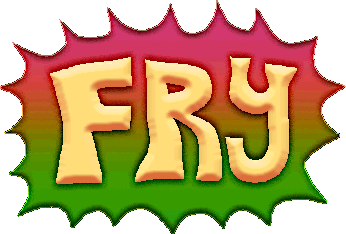
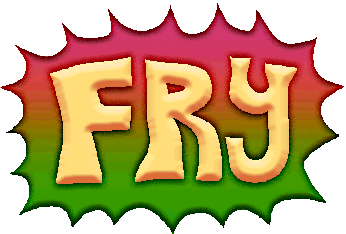
reset button

diff --git a/sketch.js b/sketch.js
@@ -7,6 +7,8 @@ let targetW = 100;
 let targetH = 100;
 // Global filterType: 0 = fryer (default), 1 = blender, 2 = coffee, 3 = candle, 4 = green blob, 5 = mechanism
 window.filterType = 0;
+// store a copy of the last-loaded original image so we can reset
+window.originalImage = null;
 
 // Replace current canvas image with a small icon corresponding to filter
 window.replaceWithIcon = function(filter) {
@@ -21,6 +23,10 @@ window.replaceWithIcon = function(filter) {
   const path = map[filter];
   if (!path) return;
 
+  // hide reset button when switching to an object/filter (only visible after loading a user image)
+  const resetBtnStart = document.getElementById('reset-image');
+  if (resetBtnStart) resetBtnStart.style.display = 'none';
+
   // hide the fry button when switching objects
   const fryBtn = document.getElementById('fry-btn');
   if (fryBtn) fryBtn.style.display = 'none';
@@ -34,6 +40,8 @@ window.replaceWithIcon = function(filter) {
   loadImage(path,
     function(loaded) {
       imgObj = loaded;
+      // when switching to an icon, keep a reference to original photo (if any)
+      // (originalImage is only set when a real photo/file is loaded via handleFile)
       // scale image so its height is 500px (width kept proportional)
       const targetHpx = 500;
       const ratio = targetHpx / loaded.height;
@@ -53,8 +61,13 @@ window.replaceWithIcon = function(filter) {
         parent.appendChild(canvasEl);
         fryerImg.style.display = 'none';
         canvasEl.style.display = 'block';
+        // ensure reset button stays hidden while showing an object icon
+        const resetBtn = document.getElementById('reset-image');
+        if (resetBtn) resetBtn.style.display = 'none';
       } else if (canvasEl) {
         canvasEl.style.display = 'block';
+        const resetBtn = document.getElementById('reset-image');
+        if (resetBtn) resetBtn.style.display = 'none';
       }
     },
     function(err){ console.error('Failed to load icon', err); }
@@ -92,9 +105,9 @@ window.applyFry = function() {
       const gr = pix[i + 1];
       const b = pix[i + 2];
       // multiply blend mode: (pixel * color) / 255
-      pix[i] = Math.round((r * 139) / 255);
-      pix[i + 1] = Math.round((gr * 90) / 255);
-      pix[i + 2] = Math.round((b * 53) / 255);
+      pix[i] = Math.round((r * 209) / 255);
+      pix[i + 1] = Math.round((gr * 152) / 255);
+      pix[i + 2] = Math.round((b * 111) / 255);
       
       // apply faint vignette (darken edges)
       const distX = Math.abs(x - w / 2) / (w / 2);
@@ -111,7 +124,78 @@ window.applyFry = function() {
     imgObj = g.get();
     const canvasEl = document.getElementById('p5canvas');
     if (canvasEl) canvasEl.style.display = 'block';
+    const resetBtn = document.getElementById('reset-image');
+    if (resetBtn) resetBtn.style.display = (window.originalImage ? 'block' : 'none');
     console.log('Applied coffee filter: brown tint + vignette');
+  } else if (window.filterType === 4) {
+    // Green blob filter: blur > brightness > contrast > posterize > green overlay
+    g.filter(BLUR, 1.5);
+    
+    // Step 1: Reduce brightness
+    g.loadPixels();
+    const pix1 = g.pixels;
+    const brightness = 1;
+    for (let i = 0; i < pix1.length; i += 4) {
+      pix1[i] = Math.round(pix1[i] * brightness);
+      pix1[i + 1] = Math.round(pix1[i + 1] * brightness);
+      pix1[i + 2] = Math.round(pix1[i + 2] * brightness);
+      // keep alpha
+    }
+    g.updatePixels();
+    
+    // Step 2: Apply contrast
+    g.loadPixels();
+    const pix2 = g.pixels;
+    const contrast = 1.5;
+    for (let i = 0; i < pix2.length; i += 4) {
+      const r = pix2[i] / 255;
+      const gr = pix2[i + 1] / 255;
+      const b = pix2[i + 2] / 255;
+      
+      const contrastR = (r - 0.5) * contrast + 0.5;
+      const contrastG = (gr - 0.5) * contrast + 0.5;
+      const contrastB = (b - 0.5) * contrast + 0.5;
+      
+      pix2[i] = Math.round(Math.max(0, Math.min(1, contrastR)) * 255);
+      pix2[i + 1] = Math.round(Math.max(0, Math.min(1, contrastG)) * 255);
+      pix2[i + 2] = Math.round(Math.max(0, Math.min(1, contrastB)) * 255);
+      // keep alpha
+    }
+    g.updatePixels();
+    
+    // Step 3: Posterize
+    const levels = Math.floor(random(6, 10));
+    g.filter(POSTERIZE, levels);
+    
+    // Step 4: Overlay pure green with soft light blend mode
+    g.loadPixels();
+    const pix = g.pixels;
+    for (let i = 0; i < pix.length; i += 4) {
+      const r = pix[i] / 255;
+      const gr = pix[i + 1] / 255;
+      const b = pix[i + 2] / 255;
+      
+      // soft light blend mode with pure green (0, 1, 0)
+      const blendR = 0;
+      const blendG = 1;
+      const blendB = 0;
+      
+      const resultR = softLight(r, blendR);
+      const resultG = softLight(gr, blendG);
+      const resultB = softLight(b, blendB);
+      
+      pix[i] = Math.round(Math.max(0, Math.min(1, resultR)) * 255);
+      pix[i + 1] = Math.round(Math.max(0, Math.min(1, resultG)) * 255);
+      pix[i + 2] = Math.round(Math.max(0, Math.min(1, resultB)) * 255);
+      // keep alpha
+    }
+    g.updatePixels();
+    imgObj = g.get();
+    const canvasEl = document.getElementById('p5canvas');
+    if (canvasEl) canvasEl.style.display = 'block';
+    const resetBtn = document.getElementById('reset-image');
+    if (resetBtn) resetBtn.style.display = (window.originalImage ? 'block' : 'none');
+    console.log('Applied green blob filter: blur > brightness > contrast > posterize=' + levels + ' > green overlay');
   } else {
     // Default fry (filterType 0): posterize + hue shift
     // posterize with random levels between 2 and 7
@@ -144,9 +228,36 @@ window.applyFry = function() {
     // ensure canvas is visible (in case it was hidden)
     const canvasEl = document.getElementById('p5canvas');
     if (canvasEl) canvasEl.style.display = 'block';
+    const resetBtn = document.getElementById('reset-image');
+    if (resetBtn) resetBtn.style.display = (window.originalImage ? 'block' : 'none');
     console.log('Applied fry: posterize=' + levels + ' hueShift=' + hueShift);
   }
 };
+
+// Reset displayed image to the last original loaded image (before any fry filters)
+window.resetToOriginal = function() {
+  if (!window.originalImage) return;
+  imgObj = window.originalImage.get();
+  // keep current scaled canvas size
+  try {
+    resizeCanvas(targetW, targetH);
+  } catch (e) {}
+  const canvasEl = document.getElementById('p5canvas');
+  if (canvasEl) canvasEl.style.display = 'block';
+  const fryerImg = document.getElementById('big-fryer');
+  if (fryerImg) fryerImg.style.display = 'none';
+  console.log('Image reset to original');
+};
+
+// Soft Light blend mode (normalized 0.0-1.0)
+// B = base color (bottom layer), A = blend color (top layer)
+function softLight(B, A) {
+  if (A <= 0.5) {
+    return (1 - 2 * A) * B * B + 2 * A * B;
+  } else {
+    return (2 * A - 1) * (Math.sqrt(B) - B) + 2 * A * B;
+  }
+}
 
 // helpers: RGB (0-255) -> HSL (h:0-360, s:0-1, l:0-1)
 function rgbToHsl(r, g, b) {
@@ -240,6 +351,8 @@ window.handleFile = function(file) {
   loadImage(url,
     function(loaded){
       imgObj = loaded;
+      // keep a pristine copy of the original loaded photo so we can reset later
+      try { window.originalImage = loaded.get(); } catch (e) { window.originalImage = null; }
       // scale image so its height is 500px (width kept proportional)
       const targetHpx = 500;
       const ratio = targetHpx / loaded.height;
@@ -260,8 +373,12 @@ window.handleFile = function(file) {
         parent.appendChild(canvasEl); // place canvas where fryer image was
         fryerImg.style.display = 'none';
         canvasEl.style.display = 'block';
+        const resetBtn = document.getElementById('reset-image');
+        if (resetBtn) resetBtn.style.display = (window.originalImage ? 'block' : 'none');
       } else if (canvasEl) {
         canvasEl.style.display = 'block';
+        const resetBtn = document.getElementById('reset-image');
+        if (resetBtn) resetBtn.style.display = (window.originalImage ? 'block' : 'none');
       }
 
       URL.revokeObjectURL(url);

diff --git a/style.css b/style.css
@@ -130,6 +130,33 @@ img[alt="Big Fryer"] {
   padding: 0;
 }
 
+/* Wrapper for canvas + reset control so reset can be absolutely positioned */
+.fryer-canvas-wrap {
+  position: relative;
+  display: inline-block;
+}
+
+/* Reset text button attached to bottom-left of the canvas (doesn't affect layout) */
+.reset-text {
+  position: absolute;
+  left: 0;
+  bottom: -1.25rem; /* place just below the canvas */
+  background: none;
+  border: none;
+  padding: 0;
+  margin: 0;
+  color: #ffdd79;
+  font-family: Consolas, monospace;
+  font-size: 12pt;
+  cursor: pointer;
+  line-height: 1;
+}
+.reset-text:hover,
+.reset-text:focus {
+  color: #557f01;
+  outline: none;
+}
+
 /* Desktop: controls on left, fryer on right */
 @media (min-width: 64rem) {
   .mainstuff {
@@ -180,16 +207,16 @@ img[alt="Big Fryer"] {
   outline: none;
 }
 
-.ingredient-btn.selected {
-  animation: redGlowFadeIn 0.2s ease-in forwards;
+.ingredient-btn.selected img {
+  animation: redGlowFadeIn 0.1s ease-in forwards;
 }
 
 @keyframes redGlowFadeIn {
   from {
-    box-shadow: 0 0 0 0 rgba(255, 0, 0, 0);
+    filter: drop-shadow(0 0 0 rgba(255, 0, 0, 0));
   }
   to {
-    box-shadow: 0 0 12px 2px rgba(255, 0, 0, 0.8);
+    filter: drop-shadow(0 0 12px rgba(255, 0, 0, 0.8)) drop-shadow(0 0 6px rgba(255, 0, 0, 0.6));
   }
 }
 

diff --git a/index.html b/index.html
@@ -30,7 +30,10 @@
             <img src="img/fry button.png" class="hvr-grow" alt="Fry Button">
           </button>
         </div>
-        <img src="img/Big Fryer3.png" alt="Big Fryer" id="big-fryer">
+        <div class="fryer-canvas-wrap">
+          <img src="img/Big Fryer3.png" alt="Big Fryer" id="big-fryer">
+          <button id="reset-image" class="reset-text" style="display:none">[RESET IMAGE]</button>
+        </div>
       </div>
       <!-- Ingredients strip (implemented from Figma assets) -->
       <section class="ingredients">
@@ -186,6 +189,12 @@
           } else {
             console.log('applyFry function not available yet');
           }
+        });
+      }
+      const resetBtn = document.getElementById('reset-image');
+      if (resetBtn) {
+        resetBtn.addEventListener('click', () => {
+          if (typeof window.resetToOriginal === 'function') window.resetToOriginal();
         });
       }
     })();
